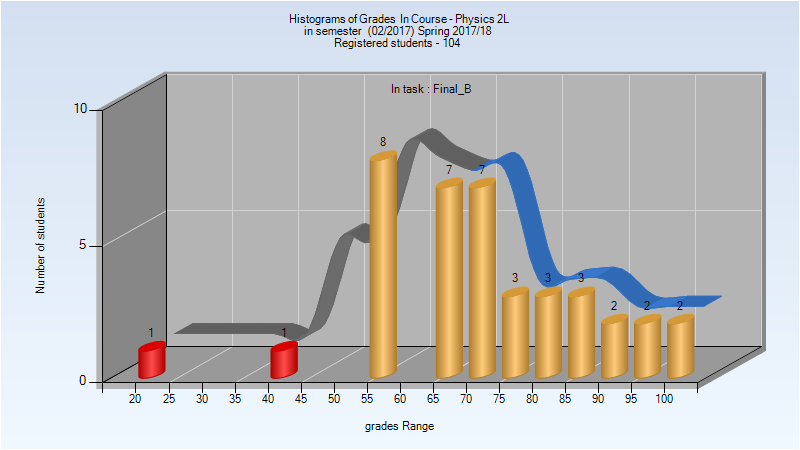
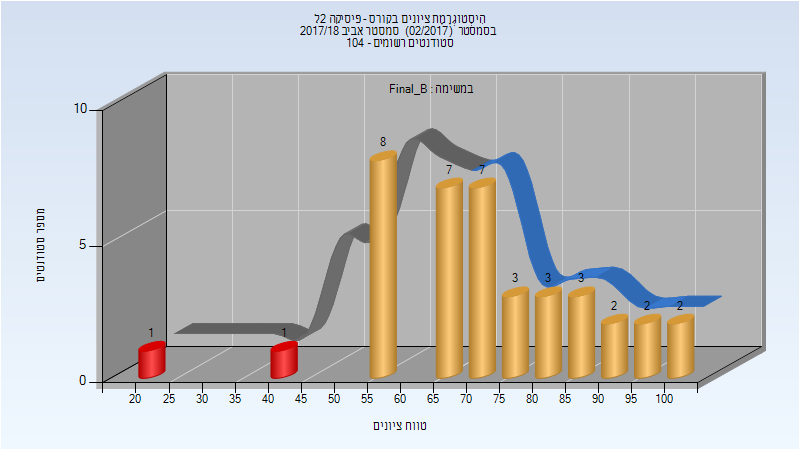
Deploy michael-maltsev/technion-histograms to github.com/michael-maltsev/technion-histograms.git:gh-pages

diff --git a/124220/index.html b/124220/index.html
@@ -150,6 +150,85 @@
 </tr>
 </tbody>
 </table>
+<h2>אביב 2018</h2>
+<h3>סופי מועד א'</h3>
+<p><img src="201702/Final_A.png" alt="201702 Final_A" /></p>
+<table>
+<thead>
+<tr>
+<th>סטודנטים</th>
+<th>עברו/נכשלו</th>
+<th>אחוז עוברים</th>
+<th>ציון מינימלי</th>
+<th>ציון מקסימלי</th>
+<th>ממוצע</th>
+<th>חציון</th>
+</tr>
+</thead>
+<tbody>
+<tr>
+<td>23</td>
+<td>15/8</td>
+<td>65</td>
+<td>20</td>
+<td>100</td>
+<td>62.087</td>
+<td>57</td>
+</tr>
+</tbody>
+</table>
+<h3>סופי מועד ב'</h3>
+<p><img src="201702/Final_B.png" alt="201702 Final_B" /></p>
+<table>
+<thead>
+<tr>
+<th>סטודנטים</th>
+<th>עברו/נכשלו</th>
+<th>אחוז עוברים</th>
+<th>ציון מינימלי</th>
+<th>ציון מקסימלי</th>
+<th>ממוצע</th>
+<th>חציון</th>
+</tr>
+</thead>
+<tbody>
+<tr>
+<td>15</td>
+<td>12/3</td>
+<td>80</td>
+<td>33</td>
+<td>100</td>
+<td>69.2</td>
+<td>67</td>
+</tr>
+</tbody>
+</table>
+<h3>סופי</h3>
+<p><img src="201702/Finals.png" alt="201702 Finals" /></p>
+<table>
+<thead>
+<tr>
+<th>סטודנטים</th>
+<th>עברו/נכשלו</th>
+<th>אחוז עוברים</th>
+<th>ציון מינימלי</th>
+<th>ציון מקסימלי</th>
+<th>ממוצע</th>
+<th>חציון</th>
+</tr>
+</thead>
+<tbody>
+<tr>
+<td>29</td>
+<td>24/5</td>
+<td>83</td>
+<td>20</td>
+<td>100</td>
+<td>72.138</td>
+<td>78</td>
+</tr>
+</tbody>
+</table>
 <h2>אביב 2019</h2>
 <h3>סופי מועד א'</h3>
 <p><img src="201802/Final_A.png" alt="201802 Final_A" /></p>

diff --git a/124118/index.html b/124118/index.html
@@ -98,6 +98,85 @@
 </tr>
 </tbody>
 </table>
+<h2>אביב 2018</h2>
+<h3>מבחן מועד א'</h3>
+<p><img src="201702/Exam_A.png" alt="201702 Exam_A" /></p>
+<table>
+<thead>
+<tr>
+<th>סטודנטים</th>
+<th>עברו/נכשלו</th>
+<th>אחוז עוברים</th>
+<th>ציון מינימלי</th>
+<th>ציון מקסימלי</th>
+<th>ממוצע</th>
+<th>חציון</th>
+</tr>
+</thead>
+<tbody>
+<tr>
+<td>34</td>
+<td>30/4</td>
+<td>88</td>
+<td>38</td>
+<td>98</td>
+<td>71.706</td>
+<td>73.5</td>
+</tr>
+</tbody>
+</table>
+<h3>סופי מועד א'</h3>
+<p><img src="201702/Final_A.png" alt="201702 Final_A" /></p>
+<table>
+<thead>
+<tr>
+<th>סטודנטים</th>
+<th>עברו/נכשלו</th>
+<th>אחוז עוברים</th>
+<th>ציון מינימלי</th>
+<th>ציון מקסימלי</th>
+<th>ממוצע</th>
+<th>חציון</th>
+</tr>
+</thead>
+<tbody>
+<tr>
+<td>34</td>
+<td>30/4</td>
+<td>88</td>
+<td>38</td>
+<td>98</td>
+<td>75.206</td>
+<td>78.5</td>
+</tr>
+</tbody>
+</table>
+<h3>סופי</h3>
+<p><img src="201702/Finals.png" alt="201702 Finals" /></p>
+<table>
+<thead>
+<tr>
+<th>סטודנטים</th>
+<th>עברו/נכשלו</th>
+<th>אחוז עוברים</th>
+<th>ציון מינימלי</th>
+<th>ציון מקסימלי</th>
+<th>ממוצע</th>
+<th>חציון</th>
+</tr>
+</thead>
+<tbody>
+<tr>
+<td>36</td>
+<td>33/3</td>
+<td>92</td>
+<td>14</td>
+<td>98</td>
+<td>75.417</td>
+<td>78.5</td>
+</tr>
+</tbody>
+</table>
 <h2>אביב 2019</h2>
 <h3>מבחן מועד א'</h3>
 <p><img src="201802/Exam_A.png" alt="201802 Exam_A" /></p>

diff --git a/124118/README.md b/124118/README.md
@@ -26,6 +26,32 @@
 | ---- | ---- | ---- | ---- | ---- | ---- | ---- |
 | 43 | 39/4 | 91 | 29 | 100 | 77.442 | 79 |
 
+## אביב 2018
+
+### מבחן מועד א'
+
+![201702 Exam_A](201702/Exam_A.png)
+
+| סטודנטים | עברו/נכשלו | אחוז עוברים | ציון מינימלי | ציון מקסימלי | ממוצע | חציון |
+| ---- | ---- | ---- | ---- | ---- | ---- | ---- |
+| 34 | 30/4 | 88 | 38 | 98 | 71.706 | 73.5 |
+
+### סופי מועד א'
+
+![201702 Final_A](201702/Final_A.png)
+
+| סטודנטים | עברו/נכשלו | אחוז עוברים | ציון מינימלי | ציון מקסימלי | ממוצע | חציון |
+| ---- | ---- | ---- | ---- | ---- | ---- | ---- |
+| 34 | 30/4 | 88 | 38 | 98 | 75.206 | 78.5 |
+
+### סופי
+
+![201702 Finals](201702/Finals.png)
+
+| סטודנטים | עברו/נכשלו | אחוז עוברים | ציון מינימלי | ציון מקסימלי | ממוצע | חציון |
+| ---- | ---- | ---- | ---- | ---- | ---- | ---- |
+| 36 | 33/3 | 92 | 14 | 98 | 75.417 | 78.5 |
+
 ## אביב 2019
 
 ### מבחן מועד א'

diff --git a/124220/README.md b/124220/README.md
@@ -42,6 +42,32 @@
 | ---- | ---- | ---- | ---- | ---- | ---- | ---- |
 | 48 | 45/3 | 94 | 50 | 100 | 76.312 | 79.5 |
 
+## אביב 2018
+
+### סופי מועד א'
+
+![201702 Final_A](201702/Final_A.png)
+
+| סטודנטים | עברו/נכשלו | אחוז עוברים | ציון מינימלי | ציון מקסימלי | ממוצע | חציון |
+| ---- | ---- | ---- | ---- | ---- | ---- | ---- |
+| 23 | 15/8 | 65 | 20 | 100 | 62.087 | 57 |
+
+### סופי מועד ב'
+
+![201702 Final_B](201702/Final_B.png)
+
+| סטודנטים | עברו/נכשלו | אחוז עוברים | ציון מינימלי | ציון מקסימלי | ממוצע | חציון |
+| ---- | ---- | ---- | ---- | ---- | ---- | ---- |
+| 15 | 12/3 | 80 | 33 | 100 | 69.2 | 67 |
+
+### סופי
+
+![201702 Finals](201702/Finals.png)
+
+| סטודנטים | עברו/נכשלו | אחוז עוברים | ציון מינימלי | ציון מקסימלי | ממוצע | חציון |
+| ---- | ---- | ---- | ---- | ---- | ---- | ---- |
+| 29 | 24/5 | 83 | 20 | 100 | 72.138 | 78 |
+
 ## אביב 2019
 
 ### סופי מועד א'
